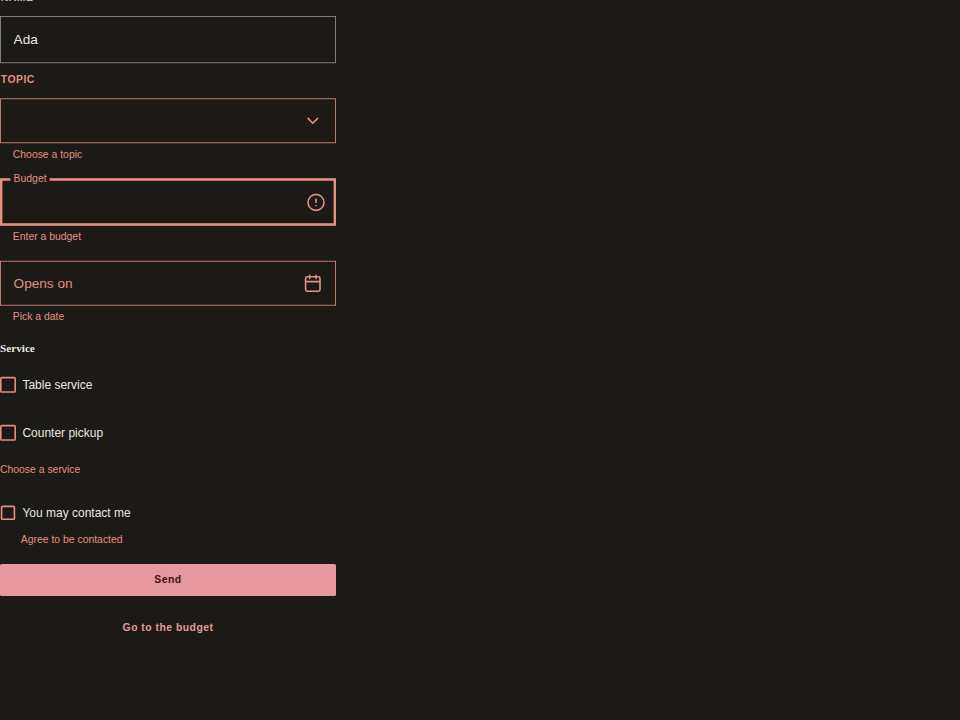
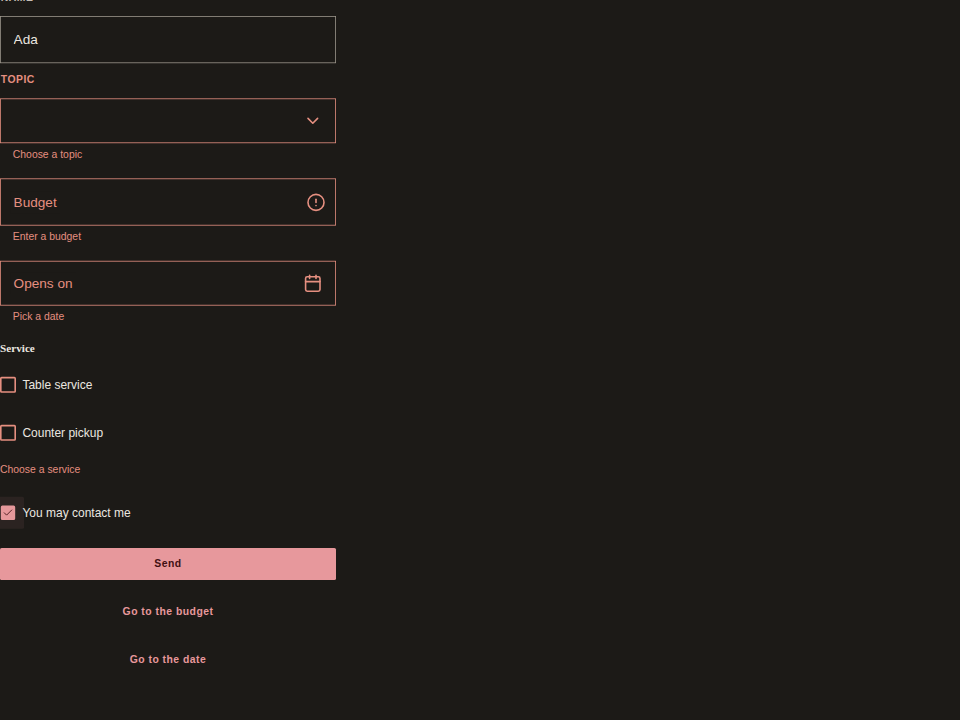
A checkbox keeps the focus when its message clears, and four smaller corrections
Found in review of the pull requests before this one.

Checkbox with an errorMessage returned the bare box in one state and a
wrapper around it in the other, so React remade the box when the message
appeared or cleared and the focus fell to the page. The wrapper now stays
whenever the prop is given, FormCheckbox always gives it, and the form
story tests that a ticked box keeps the focus.

Slider: an end segment is clipped, so a handle at an end takes its stop
with it; a story draws the three end cases. AppShell requires selectedKey:
its three navigations only agree on a selection held outside them. Button's
comment says what isLoading does not cover (a link, a toggle, Enter in a
one-field form). The form story reaches the date picker by setFocus.

Changed region(s): [[0.0, 0.7028, 0.375, 0.9167], [0.0, 0.2444, 0.375, 0.3361]]

diff --git a/components/Checkbox.tsx b/components/Checkbox.tsx
@@ -63,7 +63,10 @@ export type CheckboxProps = Omit<
   className?: string;
   /** What is wrong, shown under the box while `isInvalid` and read with it:
    *  for a box that stands alone (a consent, "I accept the terms"). A set
-   *  of boxes takes its message on `CheckboxGroup`. */
+   *  of boxes takes its message on `CheckboxGroup`. Pass it at every
+   *  render, `""` while there is nothing to say: the box is drawn inside a
+   *  wrapper whenever the prop is given, and a prop that comes and goes
+   *  would remake the box and drop its focus. */
   errorMessage?: string;
 };
 
@@ -76,7 +79,8 @@ export type CheckboxProps = Omit<
  * A box alone that must be ticked takes `isRequired`, `isInvalid` and its
  * own `errorMessage`:
  *
- *   <Checkbox isRequired isInvalid={!accepted} errorMessage="Accept the terms to continue">
+ *   <Checkbox isRequired isInvalid={!accepted}
+ *     errorMessage={accepted ? "" : "Accept the terms to continue"}>
  *     I accept the terms
  *   </Checkbox>
  *
@@ -89,6 +93,7 @@ export function Checkbox({
   ...props
 }: CheckboxProps) {
   const errorId = useId();
+  const hasField = errorMessage !== undefined;
   const showError = !!errorMessage && !!props.isInvalid;
   const box = (
     <AriaCheckbox
@@ -124,19 +129,23 @@ export function Checkbox({
       )}
     </AriaCheckbox>
   );
-  if (!showError) return box;
+  if (!hasField) return box;
   // The message is outside the label, so a press on it does not tick the
-  // box, and under the label's text: 18dp of box and 8dp of gap in.
+  // box, and under the label's text: 18dp of box and 8dp of gap in. The
+  // wrapper stays while the message comes and goes, so the box is the same
+  // element before and after and keeps the focus.
   return (
     <span data-slot="checkbox-field" className="inline-flex flex-col">
       {box}
-      <span
-        id={errorId}
-        data-slot="checkbox-error"
-        className="text-body-small font-body-small text-error pl-[26px]"
-      >
-        {errorMessage}
-      </span>
+      {showError && (
+        <span
+          id={errorId}
+          data-slot="checkbox-error"
+          className="text-body-small font-body-small text-error pl-[26px]"
+        >
+          {errorMessage}
+        </span>
+      )}
     </span>
   );
 }

diff --git a/stories/text-inputs/Form.stories.tsx b/stories/text-inputs/Form.stories.tsx
@@ -315,6 +315,9 @@ function RulesAndFocus() {
       <Button variant="text" onPress={() => form.setFocus("budget")}>
         Go to the budget
       </Button>
+      <Button variant="text" onPress={() => form.setFocus("opensOn")}>
+        Go to the date
+      </Button>
     </form>
   );
 }
@@ -354,5 +357,20 @@ export const RulesAndFocusOnTheFirstError: Story = {
     await waitFor(() =>
       expect(canvas.getByRole("textbox", { name: /Budget/ })).toHaveFocus(),
     );
+
+    await userEvent.click(canvas.getByRole("button", { name: "Go to the date" }));
+    await waitFor(() =>
+      expect(
+        document.activeElement?.closest("[data-slot=date-picker]"),
+      ).not.toBeNull(),
+    );
+
+    // Ticking the invalid box clears its message, and the box is the same
+    // element after: it keeps the focus.
+    consent.focus();
+    await userEvent.keyboard(" ");
+    await waitFor(() => expect(consent).toBeChecked());
+    await waitFor(() => expect(consent).toHaveAccessibleDescription(""));
+    await expect(consent).toHaveFocus();
   },
 };

diff --git a/components/Button.tsx b/components/Button.tsx
@@ -250,8 +250,11 @@ type BaseButtonProps = {
    *  the button draws the icon alone, and takes an `aria-label`. */
   icon?: IconComponent;
   /** The action this button started is running: a spinner takes the icon's
-   *  place, and the button takes no press and submits no form until it is
-   *  false again. It stays in the tab order and keeps its look. */
+   *  place, and the button takes no press and is no longer a submit button
+   *  until it is false again. It stays in the tab order and keeps its look.
+   *  That holds for a button; a link (`href`) and a toggle (`isToggle`)
+   *  draw the spinner and still act. A form with one text field is still
+   *  submitted by Enter in that field: guard `onSubmit` there. */
   isLoading?: boolean;
   /**
    * `round` (default) or `square`, Material's two shapes. A FAB keeps its

diff --git a/components/Slider.tsx b/components/Slider.tsx
@@ -26,7 +26,9 @@ const styles = tv({
     label: "text-label-large font-label-large text-on-surface [grid-area:label]",
     output: "text-label-large font-label-large text-on-surface-variant [grid-area:output]",
     track: "relative [grid-area:track] col-span-2 h-11 w-full touch-none",
-    segment: "absolute top-1/2 h-4 -translate-y-1/2",
+    // Clipped: with the handle at an end its segment has no width, and its
+    // stop goes with it.
+    segment: "absolute top-1/2 h-4 -translate-y-1/2 overflow-hidden",
     stop: "absolute top-1/2 size-1 -translate-y-1/2 rounded-shape-full",
     thumb: [
       // React Aria places the thumb: its own style centres it on both axes.

diff --git a/blocks/app-shell/AppShell.tsx b/blocks/app-shell/AppShell.tsx
@@ -54,8 +54,10 @@ import type { ReactNode } from "react";
 export type AppShellProps = {
   /** Three to five destinations, the same in every form. */
   items: NavigationItem[];
-  /** The id of the destination being shown. */
-  selectedKey?: string | null;
+  /** The id of the destination being shown (`null` for none). Required:
+   *  the three navigations are three components, and only a selection held
+   *  outside them is the same in each. */
+  selectedKey: string | null;
   onSelectionChange?: (key: string) => void;
   /** Above the content, beside the rail: the page's top app bar. */
   topBar?: ReactNode;

diff --git a/adapters/react-hook-form.tsx b/adapters/react-hook-form.tsx
@@ -337,7 +337,9 @@ export function FormCheckbox<TValues extends FieldValues>({
             onChange={field.onChange}
             onBlur={field.onBlur}
             isInvalid={fieldState.invalid}
-            errorMessage={fieldState.error?.message}
+            // Always a string, so the box is not remade, and keeps the
+            // focus, when its message appears or clears.
+            errorMessage={fieldState.error?.message ?? ""}
           />
         </>
       )}

diff --git a/stories/selection/Slider.stories.tsx b/stories/selection/Slider.stories.tsx
@@ -55,3 +55,14 @@ export const FillsItsContainer: Story = {
     </div>
   ),
 };
+
+/** A handle at an end: its side of the track is gone, and its stop with it. */
+export const AtItsEnds: Story = {
+  render: (args) => (
+    <div className="flex flex-col gap-4">
+      <Slider {...args} label="Empty" defaultValue={0} />
+      <Slider {...args} label="Full" defaultValue={100} />
+      <Slider {...args} label="Whole range" defaultValue={[0, 100]} />
+    </div>
+  ),
+};
